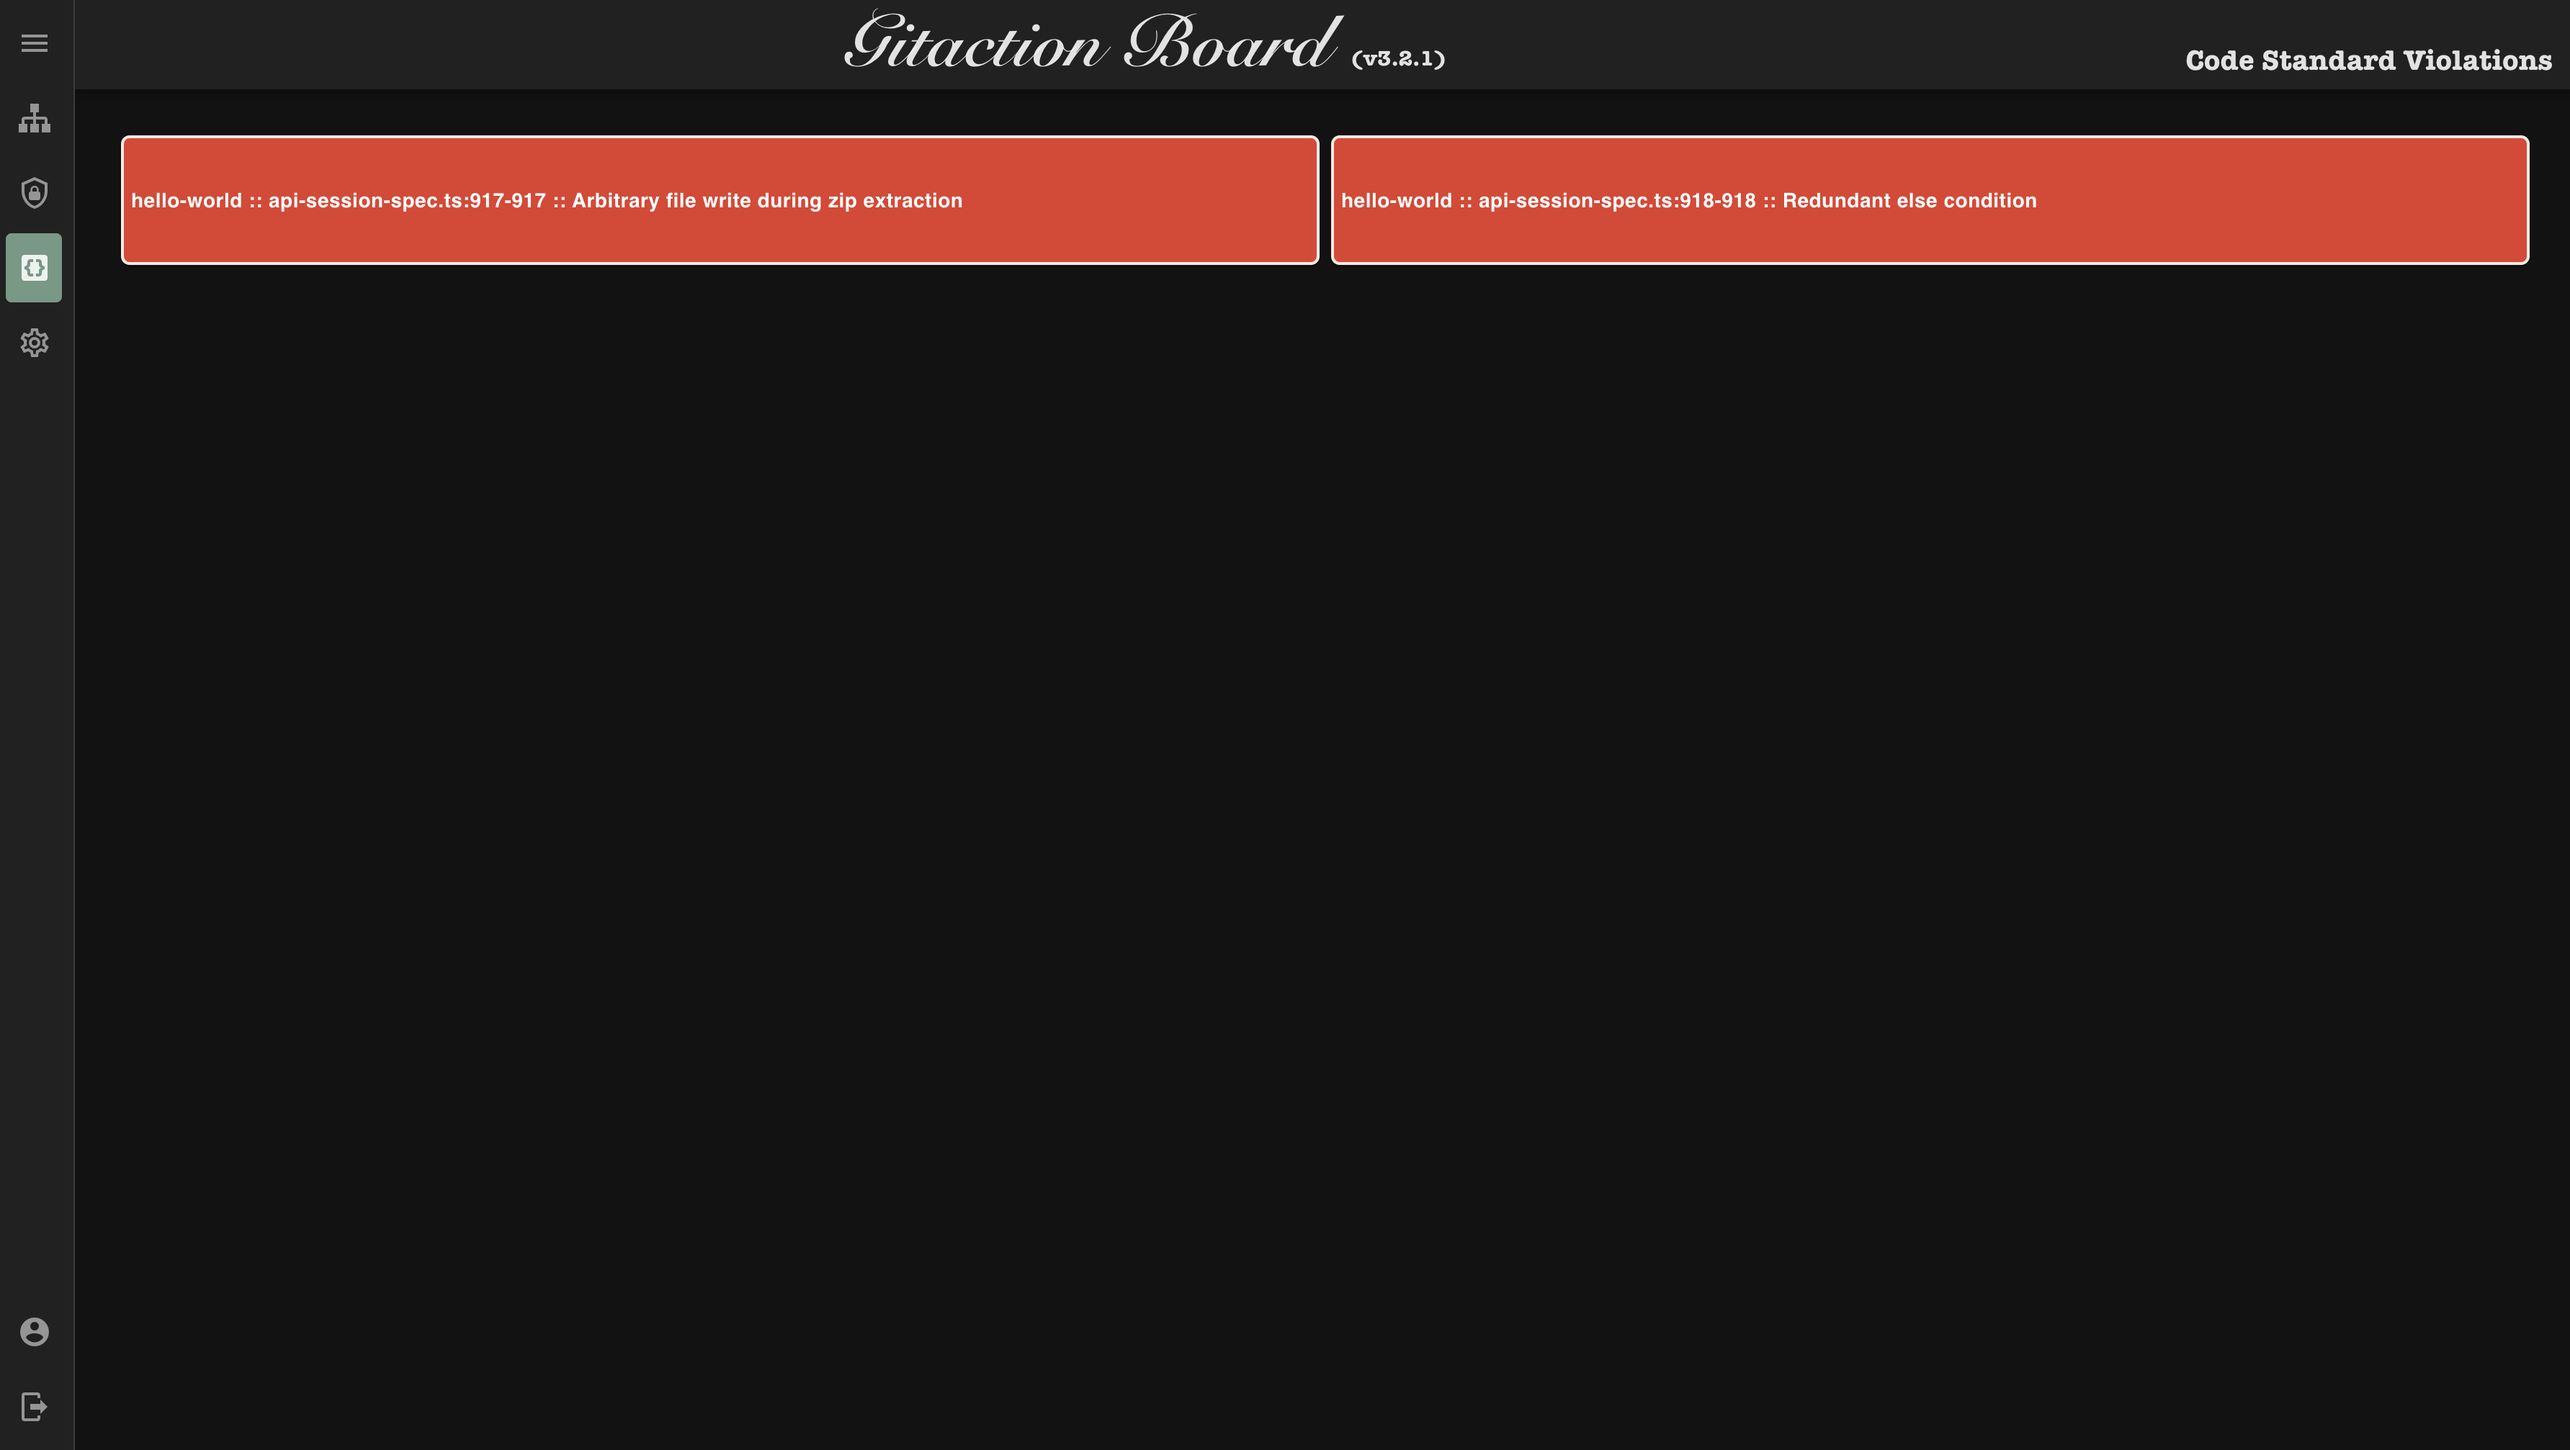
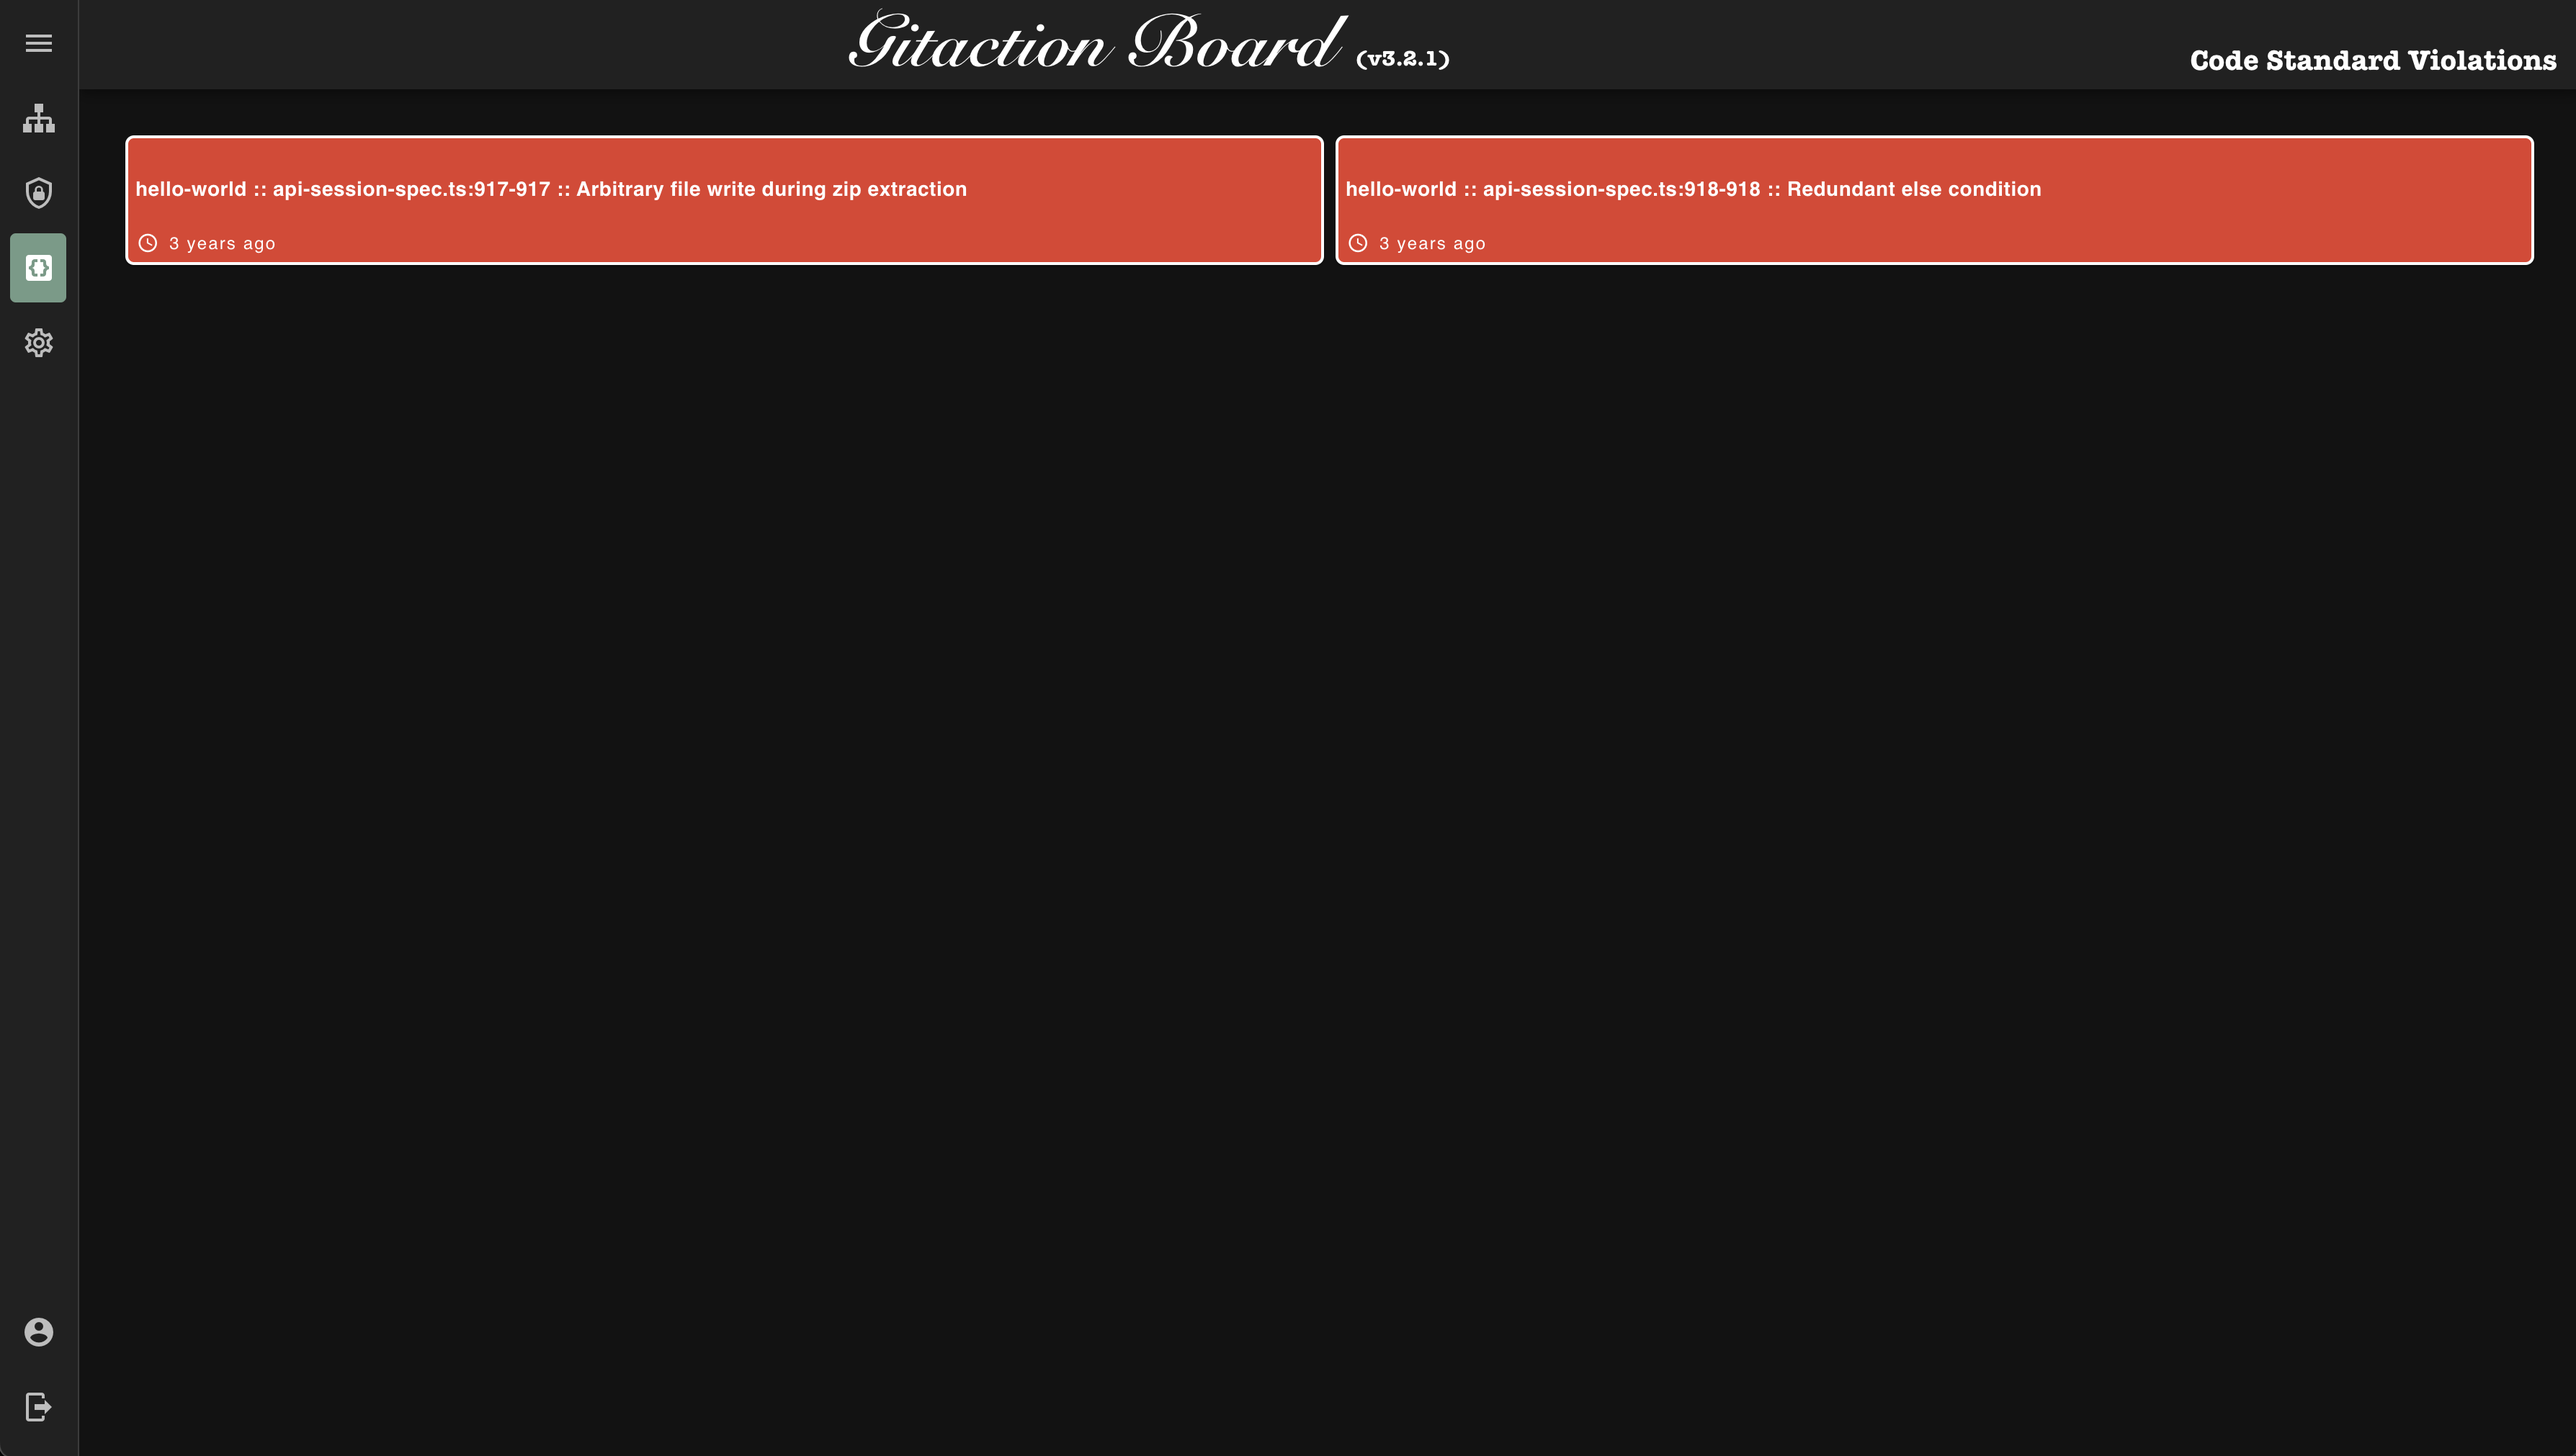
feat: Display relative time difference for exposed secrets and code stadard violation dashboard

diff --git a/frontend/src/components/GridCell.vue b/frontend/src/components/GridCell.vue
@@ -19,10 +19,25 @@
         </template>
       </v-tooltip>
     </v-card-text>
+    <div class="d-flex">
+      <v-btn
+        disabled
+        prepend-icon="mdi-clock-time-four-outline"
+        size="small"
+        variant="text"
+        density="compact"
+        flat
+        class="relative-time pl-1 align-self-center"
+      >
+        {{ relativeTime }}
+      </v-btn>
+    </div>
   </v-card>
 </template>
 
 <script>
+import { getRelativeTime } from '@/services/utils';
+
 export default {
   name: 'GridCell',
   props: {
@@ -30,30 +45,42 @@ export default {
       type: Object,
       required: true
     }
+  },
+  computed: {
+    relativeTime() {
+      return getRelativeTime(this.content.createdAt);
+    }
   }
 };
 </script>
 
 <style scoped>
+.relative-time{
+    text-transform: none !important;
+    opacity: 1;
+}
+
 .grid-cell-name {
-  color: white;
-  font-weight: bold;
-  font-size: 14px;
-  height: 100%;
-  overflow: auto;
-  display: inline-grid;
-  align-items: center;
+    color: white;
+    font-weight: bold;
+    font-size: 14px;
+    overflow: auto;
+    display: inline-grid;
+    align-items: center;
+    flex-grow: 1;
 }
 
 a {
-  text-decoration: none;
-  color: inherit;
+    text-decoration: none;
+    color: inherit;
 }
 
 .grid-cell {
-  border-radius: 6px;
-  border: 2px solid;
-  padding: 5px;
+    border-radius: 6px;
+    border: 2px solid;
+    padding: 5px;
+    display: flex;
+    flex-direction: column;
 }
 
 .failure {

diff --git a/frontend/__tests__/components/GridCell.test.js b/frontend/__tests__/components/GridCell.test.js
@@ -1,19 +1,30 @@
-import { describe, it, expect } from 'vitest';
+import { describe, it, expect, vi } from 'vitest';
 import GridCell from '@/components/GridCell';
 import { mount } from '../test-utils';
+import { getRelativeTime } from '@/services/utils';
 
 describe('<GridCell />', () => {
+  vi.mock('@/services/utils', () => {
+    return {
+      getRelativeTime: vi.fn().mockReturnValue('10 months ago')
+    };
+  });
+
   it('should render grid cell', () => {
+    const createdAt = new Date('2022-08-15T02:20:34Z');
     const wrapper = mount(GridCell, {
       props: {
         content: {
           id: '1234',
           name: 'test name',
-          url: 'https://test.com'
+          url: 'https://test.com',
+          createdAt
         }
       }
     });
 
     expect(wrapper.html()).toMatchSnapshot();
+    expect(getRelativeTime).toHaveBeenCalledOnce();
+    expect(getRelativeTime).toHaveBeenCalledWith(createdAt);
   });
 });
